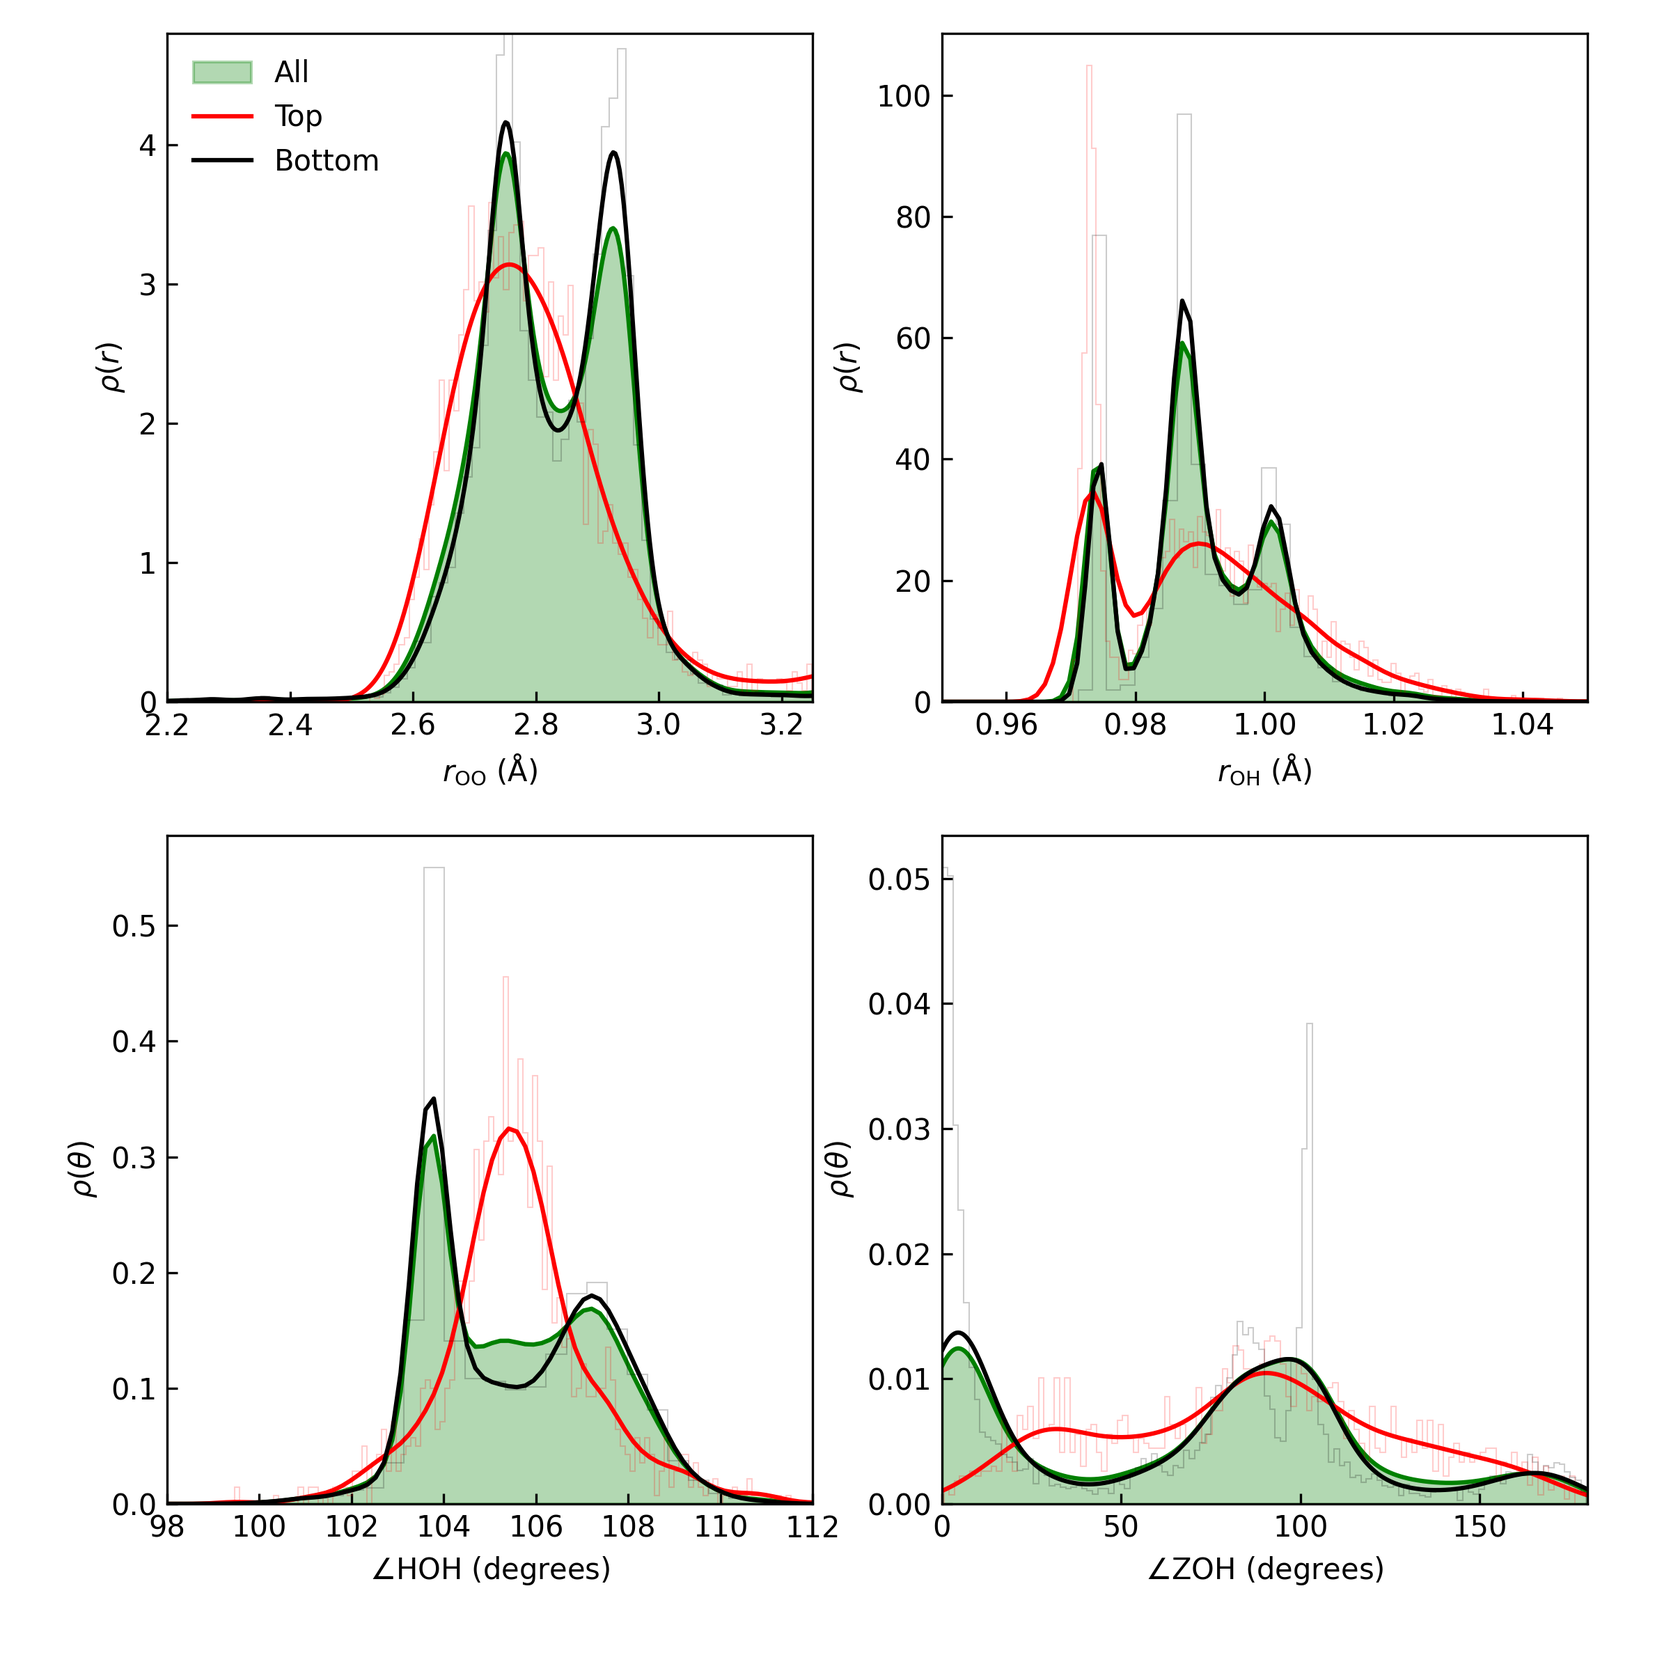
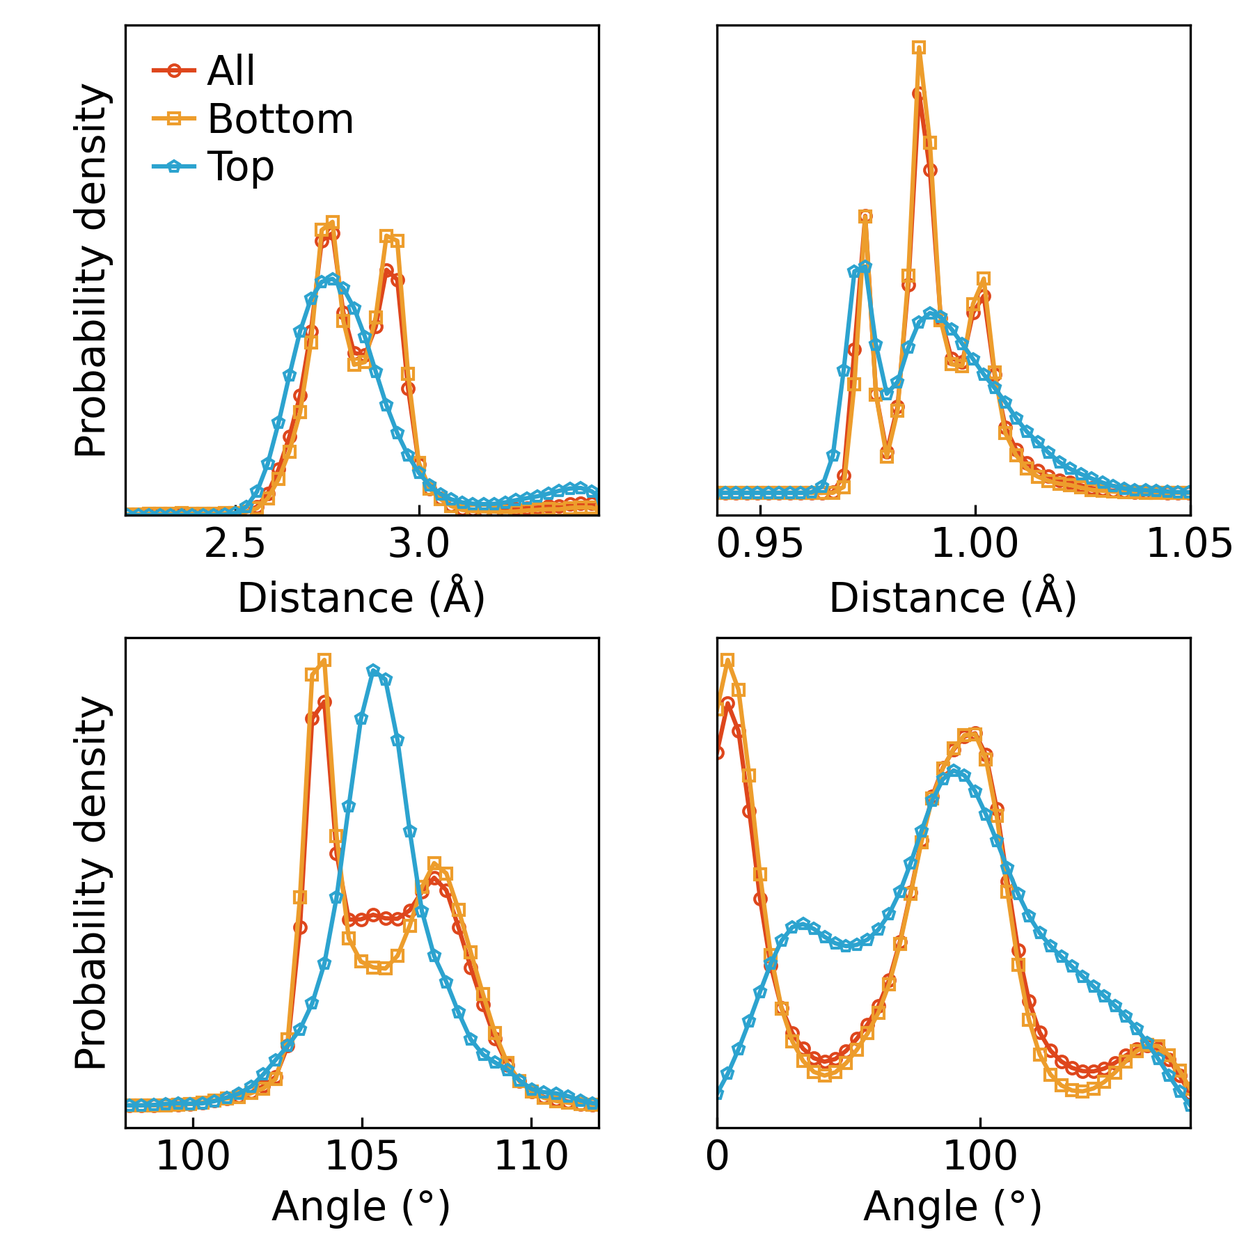
theory distribution

diff --git a/src/visualiseTheoreDistributions.py b/src/visualiseTheoreDistributions.py
@@ -1,4 +1,5 @@
 #!/usr/bin/env python
+# %%
 import os, sys
 import numpy as np
 import matplotlib.pyplot as plt
@@ -16,15 +17,33 @@ from utils import plot_joint_distributions_in_row
 
 import seaborn as sns
 from scipy.stats import gaussian_kde
-
+# %%
 if __name__ == '__main__':
     inputFolder = '../data/structures/simulations/'
     processedFolder = '../processed_data/theory_distributions/'
     os.makedirs(processedFolder, exist_ok=True)
     baseOut = '../results/theoretical_distributions/'
     structures = ['Label']
-    show = False
-    
+    show = True
+    hist = False
+
+    simcolor = '#ed9d2c'
+    expcolor = '#de461c'
+    dftcolor = '#2ca3cf'
+    bg07color = '#479FB1'
+    bv17color = '#6E7CBC'
+
+    all_color = expcolor
+    bottom_color = simcolor
+    top_color = dftcolor
+
+    plt.rcParams['font.size']=14
+    #plt.rcParams['font.family']='Arial'
+    plt.rcParams['pdf.fonttype']=42
+    plt.rcParams['svg.fonttype'] = 'none'
+    #plt.rcParams['text.usetex'] = True # Render text with LaTeX
+
+    # %% 
     for structure in structures:
         # Create the output folders
         figureOut = os.path.join(baseOut, structure)
@@ -38,9 +57,8 @@ if __name__ == '__main__':
         samples = read_samples_from_folder(sampleFolder)
         print('Calculating for structure: {}'.format(structure))
 
-        fig, axs = plt.subplots(2, 2, figsize=(8, 8))
+        fig, axs = plt.subplots(2, 2, figsize=(6, 6))
         axs = axs.flatten()
-
         # Common parameters for the plots, and output folder
         r_max = 3.5
         #mic = True if structure == 'Label' else False
@@ -49,12 +67,15 @@ if __name__ == '__main__':
         color = '#299035'
         outputFolder = os.path.join(baseOut, structure)
         alpha = 0.3
-
+        # %%
         # O-O distances 
-        z_thresholds = {'All': None, 'Top': True, 'Bottom': False}
-        colors = {'All': 'green', 'Top': 'red', 'Bottom': 'black'}
-        linestypes = {'All': '-', 'Top': '-', 'Bottom': '-'}
-        fills = {'All': True, 'Top': False, 'Bottom': False}
+        z_thresholds = {'All': None,  'Bottom': False, 'Top': True}
+        colors = {'All': all_color,  'Bottom': bottom_color, 'Top': top_color}
+        #linestypes = {'All': '-', 'Top': '-', 'Bottom': '-'}
+        linestypes = {'All': '-', 'Bottom': '-', 'Top': '-'}
+        fills = {'All': False, 'Bottom': False, 'Top': False}
+        markers = {'All': 'o',  'Bottom': 's', 'Top': 'p'}
+        num_points = 120
         for key, value in z_thresholds.items():
             label = 'OO_distances_{}_{}'.format(key, structure)
             legend = '{}'.format(key) 
@@ -66,19 +87,31 @@ if __name__ == '__main__':
                 print('Calculating OO_distance ...')
                 OO_distances = mean_rdf(samples, 'O', 'O', r_max=r_max, mic=mic, aboveZthres=value, onlyDistances=True)
                 np.savez(npzFile, OO=OO_distances, r_max=r_max)
-            if key != 'All':
-                axs[0].hist(OO_distances, bins=bins, histtype='step', density=True, linewidth=0.5, color=colors[key], alpha=0.2)
+            if key != 'All' and hist==True:
+                axs[0].hist(OO_distances, bins=bins, histtype='step', density=True, linewidth=0.5, color=colors[key], alpha=1)
             #sns.kdeplot(OO_distances, ax=axs[0], linewidth=1, label=legend, bw_adjust=1.5, color=colors[key], linestyle=linestypes[key], fill=fills[key], alpha=0.3)
-            plot_kde_fill(ax=axs[0], xmin=0, xmax=r_max, data=OO_distances, color=colors[key], linestyle=linestypes[key], label=legend, fill=fills[key], alpha_fill=alpha)
-        axs[0].set_xlabel(r'$r_\text{OO}$ (Å)')
-        axs[0].set_ylabel(r'$\rho(r)$')
-        axs[0].set_ylim(0, 4.8)
-        axs[0].set_xlim(2.2, r_max-0.25)
-        axs[0].legend(frameon=False, ncol=1)
+            plot_kde_fill(ax=axs[0], xmin=0, xmax=r_max, data=OO_distances, color=colors[key], linestyle=linestypes[key], label=legend, fill=fills[key], alpha_fill=alpha, marker=markers[key], num_points=num_points)
+        axs[0].set_xlabel('Distance (Å)')
+        axs[0].set_ylabel(r'Probability density')
+        axs[0].set_ylim(0, 6.5) 
+        axs[0].set_yticks([])
+        axs[0].set_xlim(2.2, r_max-0.01)
+        #axs[0].legend(frameon=False, ncol=1)
+        axs[0].legend(
+        frameon=False,
+        ncol=1,
+        loc='upper left',
+        handlelength=1.0,      # shorter legend line
+        handletextpad=0.3,     # less space between line and text
+        borderaxespad=0.3,     # less space between legend and axes
+        labelspacing=0.2       # less vertical space between entries
+        )
         axs[0].tick_params(axis='both', direction='in')
 
+        # %%
         # O-H distances
         r_max = 1.25
+        num_points = 500
         for key, value in z_thresholds.items():
             label = 'OH_distances_{}_{}'.format(key, structure)
             legend = 'OH {} ({})'.format(key, structure) if structure != 'P' else 'OH {} (Reference)'.format(key)
@@ -90,22 +123,25 @@ if __name__ == '__main__':
                 print('Calculating OH_distance ...')
                 OH_distances = mean_rdf(samples, 'O', 'H', r_max=r_max, mic=mic, aboveZthres=value, onlyDistances=True)
                 np.savez(npzFile, OH=OH_distances, r_max=r_max)
-            if key != 'All':
-                axs[1].hist(OH_distances, bins=bins, histtype='step', density=True, linewidth=0.5, color=colors[key], alpha=0.2)
+            if key != 'All' and hist==True:
+                axs[1].hist(OH_distances, bins=bins, histtype='step', density=True, linewidth=0.5, color=colors[key], alpha=1)
             #sns.kdeplot(OH_distances, ax=axs[1], linewidth=1, label=legend, bw_adjust=1.5, color=colors[key], linestyle=linestypes[key], fill=fills[key], alpha=0.3)
-            plot_kde_fill(ax=axs[1], data=OH_distances, xmin=0, xmax=r_max, color=colors[key], linestyle=linestypes[key], label=legend, fill=fills[key], alpha_fill=0.3)
-        axs[1].set_xlabel(r'$r_\text{OH}$ (Å)')
-        axs[1].set_ylabel(r'$\rho(r)$')
+            plot_kde_fill(ax=axs[1], data=OH_distances, xmin=0, xmax=r_max, color=colors[key], linestyle=linestypes[key], label=legend, fill=fills[key], alpha_fill=0.3, marker=markers[key], num_points=num_points)
+        axs[1].set_xlabel('Distance (Å)')
+        #axs[1].set_ylabel(r'$\rho(r)$')
         #axs[1].set_ylim(0, 120)
-        axs[1].set_xlim(0.95, 1.05)
+        axs[1].set_yticks([])
+        axs[1].set_xlim(0.94, 1.05)
         axs[1].tick_params(axis='both', direction='in')
 
+        # %%
         # H-O-H angles
         print('Plotting H-O-H ...')
         firstTwo = False
         onlyAngle = True
         r_max = 1.25
         y_lim = 0.4
+        num_points = 500
         for key, value in z_thresholds.items():
             label = "HOH_dist_{}_{}".format(key, structure)
             legend = 'HOH {} ({})'.format(key, structure) if structure != 'P' else 'HOH {} (Reference)'.format(key)
@@ -117,19 +153,22 @@ if __name__ == '__main__':
                 print('Calculating HOH_distance ...')
                 angles = mean_adf(samples, 'H', 'O', 'H', r_max=r_max, firstTwo=firstTwo, mic=mic, onlyAngle=onlyAngle, aboveZthres=value)
                 np.savez(npzFile, HOH=angles)
-            if key != 'All':
+            if key != 'All' and hist==True:
                 axs[2].hist(angles, bins=bins, histtype='step', density=True, linewidth=0.5, color=colors[key], alpha=0.2)
             #sns.kdeplot(angles, ax=axs[2], linewidth=1, label=legend, bw_adjust=1.5, color=colors[key], linestyle=linestypes[key], fill=fills[key], alpha=0.3)
-            plot_kde_fill(ax=axs[2], data=angles, xmin=0, xmax=180, color=colors[key], linestyle=linestypes[key], label=legend, fill=fills[key], alpha_fill=0.3)
-        axs[2].set_xlabel(r'$\angle$HOH (degrees)')
+            plot_kde_fill(ax=axs[2], data=angles, xmin=0, xmax=180, color=colors[key], linestyle=linestypes[key], label=legend, fill=fills[key], alpha_fill=0.3, marker=markers[key], num_points=num_points)
+        axs[2].set_xlabel('Angle (°)')
         axs[2].set_xlim(98, 112)
-        axs[2].set_ylabel(r'$\rho(\theta)$')
+        axs[2].set_ylabel('Probability density')
+        axs[2].set_yticks([])
         axs[2].tick_params(axis='both', direction='in')
 
+        # %%
         # ZOH angles 
         r_max = 1.25
         y_lim = 0.04
         bins = 120 
+        num_points = 45
         for key, value in z_thresholds.items():
             label = "Theta_OH_dist_{}_{}".format(key, structure)
             legend = r"$\theta_{{\text{{OH}}}}$ {} ({})".format(key, structure) if structure != 'P' else r"$\theta_{{\text{{OH}}}}$ {} (Reference)".format(key)
@@ -141,60 +180,39 @@ if __name__ == '__main__':
                 print('Calculating Theta_OH_distance ...')
                 angles = mean_adf_OH(samples, r_max=r_max, firstTwo=False, mic=False, onlyAngle=True, aboveZthres=value)
                 np.savez(npzFile, ZOH=angles)
-            if key != 'All': 
-                axs[3].hist(angles, bins=bins, histtype='step', density=True, linewidth=0.5, color=colors[key], alpha=0.2)
+            if key != 'All' and hist==True: 
+                axs[3].hist(angles, bins=bins, histtype='step', density=True, linewidth=0.5, color=colors[key], alpha=1)
             #sns.kdeplot(angles, ax=axs[3], linewidth=1, label=legend, bw_adjust=0.5, color=colors[key], linestyle=linestypes[key], fill=fills[key], alpha=0.3)
-            plot_kde_fill(ax=axs[3], data=angles, xmin=0, xmax=180, color=colors[key], linestyle=linestypes[key], label=legend, fill=fills[key], alpha_fill=0.3)
-        axs[3].set_xlabel(r'$\angle$ZOH (degrees)')
+            plot_kde_fill(ax=axs[3], data=angles, xmin=0, xmax=180, color=colors[key], linestyle=linestypes[key], label=legend, fill=fills[key], alpha_fill=0.3, marker=markers[key], num_points=num_points)
+        axs[3].set_xlabel('Angle (°)')
         axs[3].set_xlim(0, 180)
-        axs[3].set_ylabel(r'$\rho(\theta)$')
+        #axs[3].set_ylabel(r'$\rho(\theta)$')
+        axs[3].set_yticks([])
         axs[3].tick_params(axis='both', direction='in')
 
-        fig.subplots_adjust(hspace=0.2, wspace=0.2, left=0.1, bottom=0.1, right=0.95, top=0.98)
+        fig.subplots_adjust(hspace=0.25, wspace=0.25, left=0.1, bottom=0.1, right=0.95, top=0.98)
         plt.savefig('{}/RDF_ADF_{}.pdf'.format(figureOut, structure))
         plt.savefig('{}/RDF_ADF_{}.png'.format(figureOut, structure), dpi=300)
         plt.savefig('{}/RDF_ADF_{}.svg'.format(figureOut, structure))
         if show: plt.show()
         plt.close() 
 
+        # %%
         ##################
         # Order parameter
         ##################
         r_max = 3.5
         sgs, sks = compute_sg_sk_all(samples, r_max=r_max)
         x_min, y_min = sgs.min(), sks.min()
-        x_max, y_max = 1+0.1, 1+0.0008
-        # Plot All, Top, and Bottom separately 
-        for k, (key, value) in enumerate(z_thresholds.items()):
-            npzFile = '{}/OrderP_{}.npz'.format(npzOut, key)
-            if os.path.exists(npzFile): 
-                print('Loading OrderParameter from file: {}'.format(npzFile))
-                sgs, sks = np.load(npzFile)['sgs'], np.load(npzFile)['sks']
-            else:
-                print('Calculating OrderParameter ...')
-                sgs, sks = compute_sg_sk_all(samples, r_max=r_max, aboveZthres=value)
-                sg_sk = np.array([sgs, sks]).T
-                np.savez(npzFile, sg_sk=sg_sk, sgs=sgs, sks=sks)
-            
-            xs, ys = sgs, sks
-            x_label, y_label = r'$S_g$', r'$S_k$'
-            image_prefix = f"{figureOut}/OrderP_{structure}_{key}"
-            text = key
-            plot_joint_distribution(xs, ys, x_min, x_max, y_min, y_max, x_label,
-                                    y_label, image_prefix, text, show)
-
+        x_max, y_max = 1+0.1, 1
+        xs, ys = sgs, sks
+        x_label, y_label = r'$S_g$', r'$S_k$'
         # Plot All, Top, and Bottom in one figure
         npz_prefix = f"{npzOut}/OrderP"
-        x_max, y_max = 1+0.1, 1+0.0008
+        x_max, y_max = 1+0.1, 1
         npz_x, npz_y = 'sgs', 'sks'
         image_prefix = f"{figureOut}/OrderP_{structure}_overlay"
-        plot_joint_distributions(z_thresholds, npz_prefix, npz_x, npz_y, colors, x_min, x_max, y_min, y_max, x_label, y_label, image_prefix, text, show)
-
-        # Plot distributions side by side
-        x_max, y_max = 1, 1
-        image_prefix = f"{figureOut}/OrderP_{structure}_row"
-        plot_joint_distributions_in_row(z_thresholds, npz_prefix, npz_x, npz_y, x_min, x_max, y_min, y_max, x_label, y_label, image_prefix, text, show)
-
+        plot_joint_distributions(z_thresholds, npz_prefix, npz_x, npz_y, colors, x_min, x_max, y_min, y_max, x_label, y_label, image_prefix, linestypes, show)
 
         ##################
         # H-bonds
@@ -204,37 +222,11 @@ if __name__ == '__main__':
         angles_ = np.array([hb[4] for hb in hbonds_])
         x_min, y_min = distances_.min(), angles_.min()
         x_max, y_max = 3.5, 180
-        x_label, y_label = '$d_{OO}$ (Å)', r'$\angle$DHA (°)'
-        # Plot All, Top, and Bottom separately
-        for k, (key, value) in enumerate(z_thresholds.items()):
-            npzFile = '{}/Hbond_{}.npz'.format(npzOut, key)
-            if os.path.exists(npzFile):
-                print('Loading Hbond from file: {}'.format(npzFile))
-                hbonds = np.load(npzFile)['hbond']
-                #distances = np.load(npzFile)['distance']
-                #angles = np.load(npzFile)['angle']
-            else:
-                print('Calculating Hbond ...')
-                hbonds = cal_all_hydrogen_bonds(samples, aboveZthres=value, zThresholdO=4.85)
-                distances_da = [hb[3] for hb in hbonds]
-                angles_dha = [hb[4] for hb in hbonds]
-                OO_OHO = np.array([distances_da, angles_dha]).T
-                np.savez(npzFile, hbond=hbonds, distance=distances_da, 
-                                  angle=angles_dha, OO_OHO=OO_OHO)
-            xs = np.array([hb[3] for hb in hbonds])
-            ys = np.array([hb[4] for hb in hbonds])
-            image_prefix = f"{figureOut}/Hbond_{structure}_{key}"
-            text = key
-            plot_joint_distribution(xs, ys, x_min, x_max, y_min, y_max, x_label,
-                                    y_label, image_prefix, text, show)
+        x_label, y_label = 'Distance OO (Å)', 'Angle DHA (°)'
+
         # Plot All, Top, and Bottom in one figure
         npz_prefix = f"{npzOut}/Hbond"
-        #x_max, y_max = 1+0.1, 1+0.0008
         npz_x, npz_y = 'distance', 'angle'
         image_prefix = f"{figureOut}/Hbond_{structure}_overlay"
-        plot_joint_distributions(z_thresholds, npz_prefix, npz_x, npz_y, colors, x_min, x_max, y_min, y_max, x_label, y_label, image_prefix, text, show)
+        plot_joint_distributions(z_thresholds, npz_prefix, npz_x, npz_y, colors, x_min, x_max, y_min, y_max, x_label, y_label, image_prefix, linestypes, show)
         
-        # Plot distributions side by side
-        #x_max, y_max = 1, 1
-        image_prefix = f"{figureOut}/Hbond_{structure}_row"
-        plot_joint_distributions_in_row(z_thresholds, npz_prefix, npz_x, npz_y, x_min, x_max, y_min, y_max, x_label, y_label, image_prefix, text, show)

diff --git a/src/utils.py b/src/utils.py
@@ -5,7 +5,7 @@ import matplotlib.pyplot as plt
 from matplotlib.lines import Line2D
 import re
 
-def plot_kde_fill(ax, data, color, linestyle, label, fill=True, alpha_fill=0.3, xmin=None, xmax=None, num_points=1000, bw_method=None, hist=False, bins=120):
+def plot_kde_fill(ax, data, color, linestyle, label, fill=True, alpha_fill=0.3, xmin=None, xmax=None, num_points=100, bw_method=None, hist=False, bins=120, marker=None):
     """
     Plots a KDE curve with optional fill under the curve and returns the x and y values.
 
@@ -41,7 +41,7 @@ def plot_kde_fill(ax, data, color, linestyle, label, fill=True, alpha_fill=0.3, 
             label=label,
             alpha=alpha_fill)
     else:
-        ax.plot(x, y, color=color, linestyle=linestyle, label=label, alpha=1.0)
+        ax.plot(x, y, color=color, linestyle=linestyle, marker=marker, markerfacecolor='none', markersize=4, markeredgewidth=1, label=label, alpha=1.0)
     if hist:
         ax.hist(data, bins=bins, histtype='step', density=True, color=color, alpha=0.25, linewidth=0.3)
     return x, y
@@ -82,10 +82,10 @@ def plot_joint_distribution(xs, ys, x_min, x_max, y_min, y_max, x_label, y_label
     if show: plt.show()
     plt.close()
 
-def plot_joint_distributions(z_thresholds, npz_prefix, npz_x, npz_y, colors, x_min, x_max, y_min, y_max, x_label, y_label, image_prefix, text, show):
+def plot_joint_distributions(z_thresholds, npz_prefix, npz_x, npz_y, colors, x_min, x_max, y_min, y_max, x_label, y_label, image_prefix, linestypes, show):
     sns.set(style="white")
-    fig = plt.figure(figsize=(6, 6))
-    grid = plt.GridSpec(2, 2, width_ratios=[4, 1], height_ratios=[1, 4], hspace=0.05, wspace=0.05)
+    fig = plt.figure(figsize=(3.85, 3.85))
+    grid = plt.GridSpec(2, 2, width_ratios=[4, 1], height_ratios=[1, 4], hspace=0.015, wspace=0.015)
     ax_joint = fig.add_subplot(grid[1, 0])
     ax_marg_x = fig.add_subplot(grid[0, 0], sharex=ax_joint)
     ax_marg_y = fig.add_subplot(grid[1, 1], sharey=ax_joint)
@@ -94,30 +94,28 @@ def plot_joint_distributions(z_thresholds, npz_prefix, npz_x, npz_y, colors, x_m
         xs, ys = np.load(f"{npz_prefix}_{key}.npz")[npz_x], np.load(f"{npz_prefix}_{key}.npz")[npz_y]
         color = colors[key]
 
-        if key == "All": # Joint KDE for 'All' only
-            sns.kdeplot(x=xs, y=ys, fill=True, bw_adjust=0.5, ax=ax_joint,
-                        cmap=sns.light_palette(color, as_cmap=True))
-        else: # Scatter for Top and Bottom only
-            ax_joint.scatter(xs, ys, s=5, marker = ',' if key =="Bottom"
-                             else 'x', color=color, alpha=0.5,
-                             label=f'{key} samples')
+        # if key == "All": # Joint KDE for 'All' only
+        #     sns.kdeplot(x=xs, y=ys, fill=True, bw_adjust=0.5, ax=ax_joint,
+        #                 cmap=sns.light_palette(color, as_cmap=True))
+        # else: # Scatter for Top and Bottom only
+        #     ax_joint.scatter(xs, ys, s=5, marker = ',' if key =="Bottom"
+        #                      else 'x', color=color, alpha=0.5,
+        #                      label=f'{key} samples')
+        ax_joint.scatter(xs, ys, s=5, marker = ',' if key =="Bottom"
+                            else 'x', color=color, alpha=0.5,
+                            label=f'{key} samples')
 
-        sns.kdeplot(x=xs, ax=ax_marg_x, color=color, fill=False if key !=
-                    "All" else True,
-                    bw_adjust=0.5, alpha=0.3 if key ==
-                    "All" else 1, label=f"{key} samples")
-        sns.kdeplot(y=ys, ax=ax_marg_y, color=color, fill=False if key !=
-                    "All" else True,
-                    bw_adjust=0.5, alpha=0.3 if key ==
-                    "All" else 1, label=f"{key} samples")
+        sns.kdeplot(x=xs, ax=ax_marg_x, color=color, fill=False,
+                bw_adjust=0.5, alpha=1, label=f"{key} samples", linestyle=linestypes[key])
+        sns.kdeplot(y=ys, ax=ax_marg_y, color=color, fill=False, 
+                bw_adjust=0.5, alpha=1, label=f"{key} samples", linestyle=linestypes[key])
 
     ax_joint.set_xlim(x_min, x_max)
     ax_joint.set_ylim(y_min, y_max)
     ax_joint.set_xlabel(x_label)
     ax_joint.set_ylabel(y_label)
     ax_joint.tick_params(direction="in")
-    #ax_joint.legend(loc='upper left', frameon=False)
-    ax_marg_x.legend(loc='lower left', frameon=False)
+    #ax_marg_x.legend(loc='lower left', frameon=False)
 
     # Hide axis ticks for marginal plots
     ax_marg_x.axis("off")
@@ -128,7 +126,7 @@ def plot_joint_distributions(z_thresholds, npz_prefix, npz_x, npz_y, colors, x_m
         for label, color in colors.items() ]
     ax_marg_x.legend(handles=legend_lines, loc='lower center', frameon=False,
                      ncol=1, bbox_to_anchor=(0.15, 0.00), fontsize=10)
-    fig.subplots_adjust(left=0.15, right=0.95, top=0.95, bottom=0.15,
+    fig.subplots_adjust(left=0.25, right=0.99, top=0.92, bottom=0.15,
                         hspace=0.01, wspace=0.01)
 
     fig.savefig(f"{image_prefix}.pdf", bbox_inches='tight')
@@ -142,7 +140,7 @@ def plot_joint_distributions_in_row(z_thresholds, npz_prefix, npz_x, npz_y,
                                     x_min, x_max, y_min, y_max, x_label,
                                     y_label, image_prefix, text, show):
         nbin = 50
-        figsize = (8, 2.5)
+        figsize = (6, 2)
         cmap = 'Greens'
         xgrid = np.linspace(x_min, x_max, nbin)
         ygrid = np.linspace(y_min, y_max, nbin)
